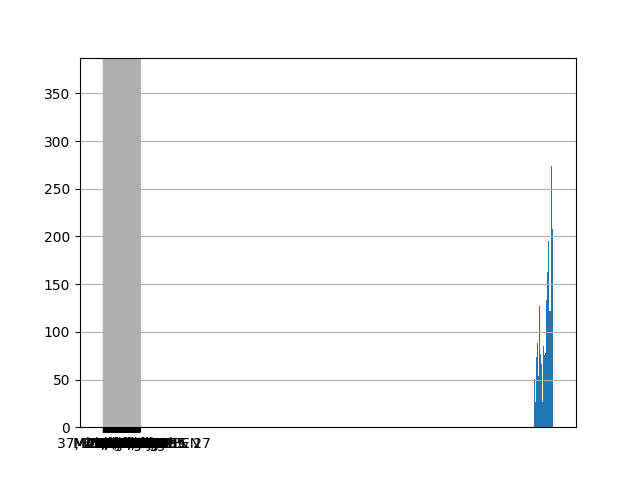
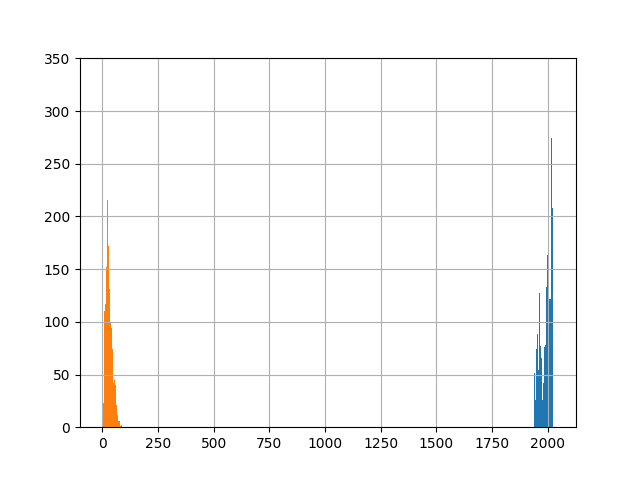
fourth push

diff --git a/wrangling2.py b/wrangling2.py
@@ -48,8 +48,10 @@ plt.savefig("year_hist.png")
 # i did a histogram and judging from the histogram, the shark attacks are increasing as the years progress
 
 # Part 4
-df4['Age']=df4['Age'].astype(str)
-df4['Age']=df4['Age'].str.strip()
+df4['Age'] = pd.to_numeric(df4['Age'], errors='coerce') # Coerce the variable to numeric
+
+# Create a missing dummy:
+df4['age_nan'] = df4['Age'].isnull()
 df4['Age'] = df4['Age'].replace([' ','nan','NA','N/A'], np.nan)
 
 df4['Age'].hist(bins=50)
